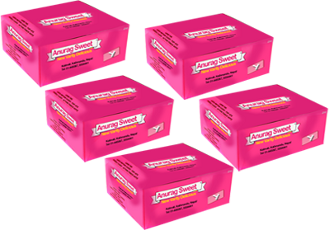
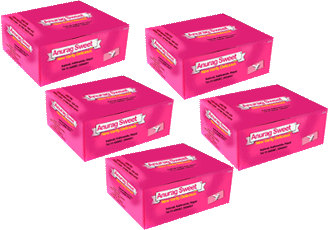
Adding & Multiplying Variables, images were not correctly corresponding to questions Also recompressed all images to 8bit PNG - transparency is not perfect but filesize is down 70%

diff --git a/lessons/adding-and-multiplying-variables/lesson.js b/lessons/adding-and-multiplying-variables/lesson.js
@@ -1,11 +1,12 @@
-var questions = Karma.shuffle([
+var questions = [
     {
         q1: 'एउटा बट्टामा {variable} ओटा लडडुहरु छन ',
         q2: 'यदि एउटा बट्टामा {per} ओटा लडडुहरु छन भने {qty} ओटा  बट्टामा',
         q3: 'ओटा लडडुहरु छन',
         variable: 'y',
         per: 20,
-        qty: 5
+        qty: 5,
+        img: 0
     },
     {
         q1: 'एउटा सीसाकलमको बट्टामा {variable} ओटा सीसाकलमहरु छन',
@@ -13,7 +14,8 @@
         q3: 'सीसाकलमहरु छन',
         variable: 'p',
         per: 10,
-        qty: 4
+        qty: 4,
+        img: 1
     },
     {
         q1: 'एउटा बोरामा {variable} केजी  चामल  छ ',
@@ -21,7 +23,8 @@
         q3: 'केजी  चामल  छ',
         variable: 'r',
         per: 50,
-        qty: 4
+        qty: 4,
+        img: 2
     },
     {
         q1: 'एउटा सिसीमा {variable} लिटर तेल छ ',
@@ -29,7 +32,8 @@
         q3: 'लिटर तेल छ',
         variable: 'z',
         per: 2,
-        qty: 4
+        qty: 4,
+        img: 3
     },
     {
         q1: 'एउटा कार्टुनमा {variable} प्याकेट चाउचाउ छन ',
@@ -37,7 +41,8 @@
         q3: 'प्याकेट चाउचाउ छन',
         variable: 'x',
         per: 30,
-        qty: 3
+        qty: 3,
+        img: 4
     },
     {
         q1: 'एउटा डालोमा {variable} ओटा नरिवलहरु छन ',
@@ -45,7 +50,8 @@
         q3: 'ओटा नरिवलहरु छन',
         variable: 'n',
         per: 25,
-        qty: 3
+        qty: 3,
+        img: 5
     },
     {
         q1: 'एउटा झोलामा {variable} केजी  आपहरु छन',
@@ -53,7 +59,8 @@
         q3: 'केजी  आपहरु छन',
         variable: 'm',
         per: 7,
-        qty: 2
+        qty: 2,
+        img: 6
     },
     {
         q1: 'यो एउटा  बिस्कुटको प्याकेटमा {variable} ओटा बिस्कुटहरु छन ',
@@ -61,9 +68,11 @@
         q3: 'बिस्कुटहरु छन'	,
         variable: 'x',
         per: 15,
-        qty: 3
+        qty: 3,
+        img: 7
     },
-]);
+];
+
 var current_question_index = -1;
 var attempted_answer = false;
 var correct_subtotal = false;
@@ -112,8 +121,8 @@ function askQuestion() {
 
     var question = questions[current_question_index];
 
-    $("#questionTopImage").append(Karma.createImg('img' + current_question_index));
-    $("#questionBottomImage").append(Karma.createImg('img' + current_question_index + 'More'));
+    $("#questionTopImage").append(Karma.createImg('img' + question['img']));
+    $("#questionBottomImage").append(Karma.createImg('img' + question['img'] + 'More'));
 
     $("#questionTopText").html($.format(question['q1'], question));
 
@@ -153,6 +162,8 @@ function initialize(){
 function startLesson(karma, contentDiv) {
     current_question_index = -1;
     scoreboardReset();
+
+    questions = karma.shuffle(questions);
 
     contentDiv = $("#content");
     contentDiv.empty();

diff --git a/lessons/adding-and-multiplying-variables/lesson.css b/lessons/adding-and-multiplying-variables/lesson.css
@@ -15,6 +15,7 @@
 #questionTopImage{
     background-color: #D2D77E;
     height: 120px;
+    padding: 5px 0;
 }
 #questionBottomImage{
     padding: 10px 0;

diff --git a/lessons/adding-and-multiplying-variables/description.py b/lessons/adding-and-multiplying-variables/description.py
@@ -21,6 +21,5 @@ audio('incorrect')
 
 image('correct.png', 'correct')
 image('incorrect.png', 'incorrect')
-image('gameOver.png', 'gameOver')
 
 footer_configuration(link_next=True, link_previous=True, scoreboard=True, link_check_answer=True)
